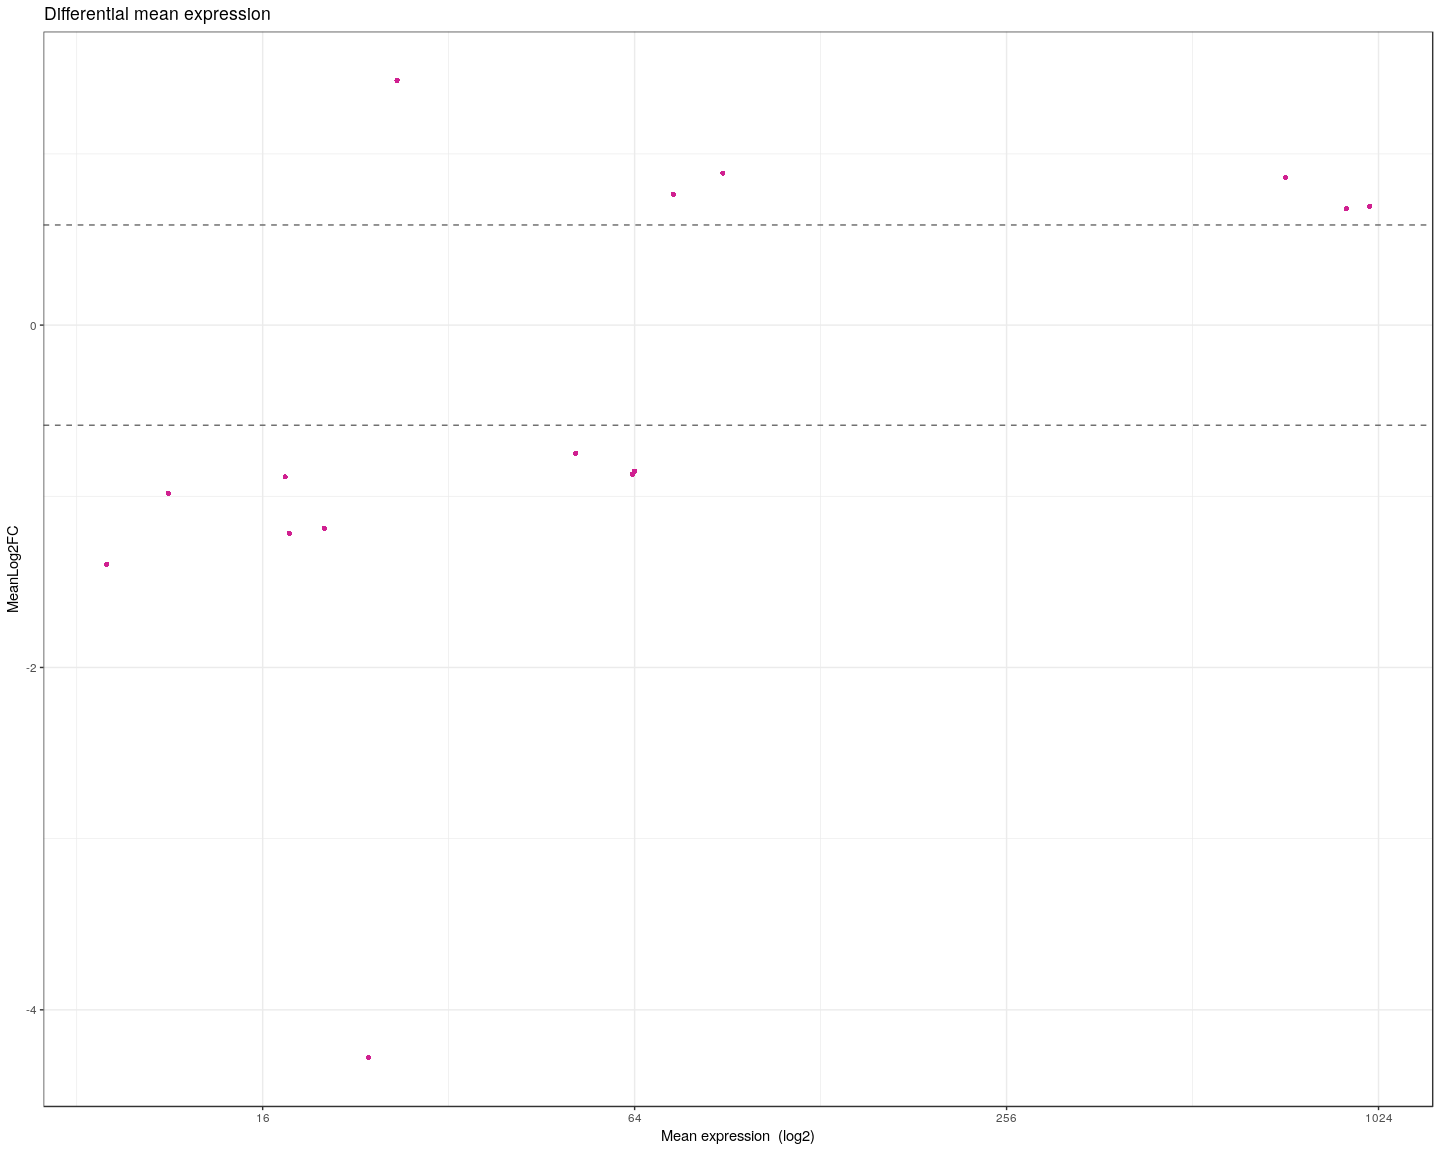
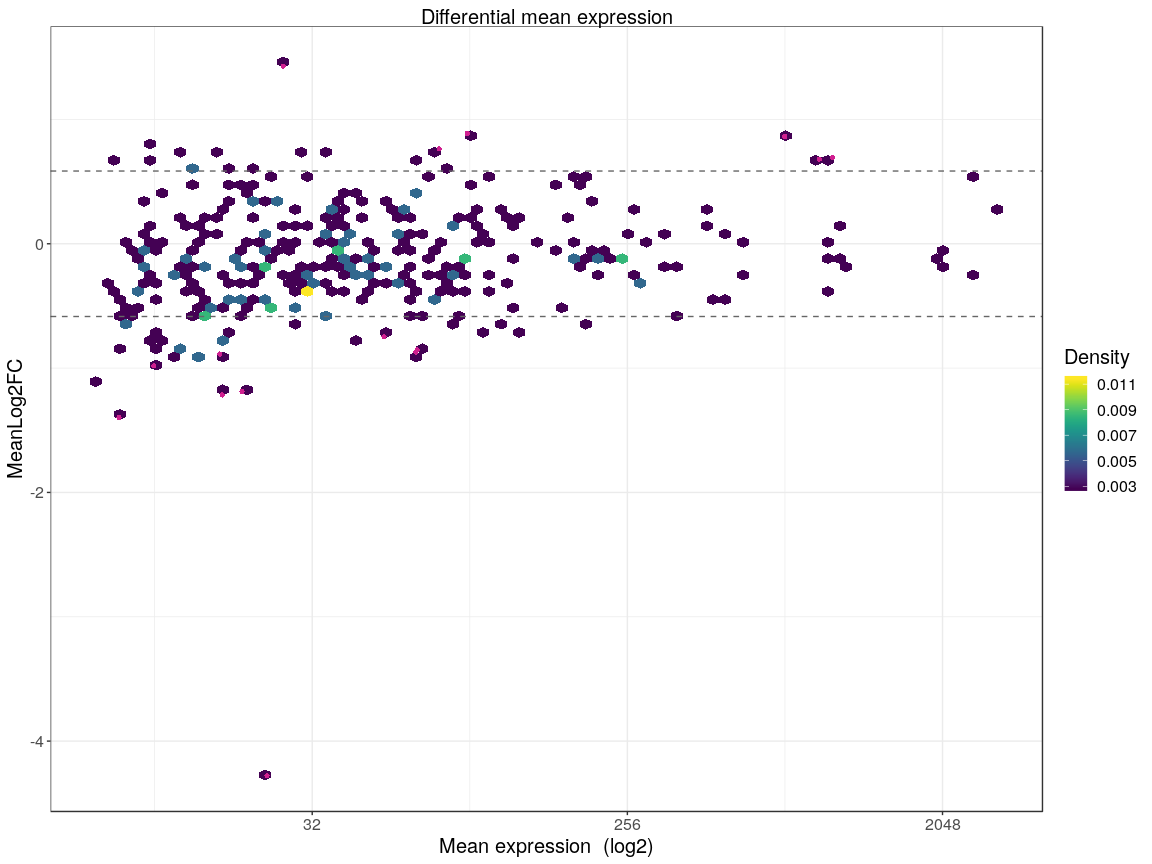
tmp

diff --git a/DEPlots_Demo.md b/DEPlots_Demo.md
@@ -9,9 +9,9 @@
     data(ChainRNAReg)
 
     t <- theme_bw()
-    t$text <- element_text(size = 15)
+    t$text$size <- 15
     t$plot.title <- element_text(hjust = 0.5)
-    theme_set(theme_bw())
+    theme_set(t)
 
     os <- BASiCS_CorrectOffset(ChainSCReg, ChainRNAReg, Plot = FALSE)
 
@@ -43,21 +43,11 @@
 
     BASiCS_PlotOffset(os, Type = "MAPlot")
 
-    ## Warning: Computation failed in `stat_binhex()`:
-    ## "hbin" not resolved from current namespace (hexbin)
-
-    ## Warning: Computation failed in `stat_binhex()`:
-    ## "hbin" not resolved from current namespace (hexbin)
-
 <img src="DEPlots_Demo_files/figure-markdown_strict/offsets-3.png" width="1200px" height="500px" />
 
     DEPlots_ResultDE(de@Results[[1]])
 
-    ## Warning: Computation failed in `stat_binhex()`:
-    ## "hbin" not resolved from current namespace (hexbin)
-
-    ## Warning: Computation failed in `stat_binhex()`:
-    ## "hbin" not resolved from current namespace (hexbin)
+    ## Warning: Removed 16 rows containing missing values (geom_hex).
 
     ## Warning: Removed 1 rows containing missing values (geom_hline).
 
@@ -65,15 +55,11 @@
 
     DEPlots_ResultDE(de@Results[[1]], Which = "MAPlot")
 
-    ## Warning: Computation failed in `stat_binhex()`:
-    ## "hbin" not resolved from current namespace (hexbin)
-
 <img src="DEPlots_Demo_files/figure-markdown_strict/DE: separately-2.png" width="1200px" height="500px" />
 
     DEPlots_ResultDE(de@Results[[1]], Which = "VolcanoPlot")
 
-    ## Warning: Computation failed in `stat_binhex()`:
-    ## "hbin" not resolved from current namespace (hexbin)
+    ## Warning: Removed 16 rows containing missing values (geom_hex).
 
     ## Warning: Removed 1 rows containing missing values (geom_hline).
 
@@ -85,19 +71,11 @@
 
     BASiCS_PlotDE(de)
 
-    ## Warning: Computation failed in `stat_binhex()`:
-    ## "hbin" not resolved from current namespace (hexbin)
-
-    ## Warning: Computation failed in `stat_binhex()`:
-    ## "hbin" not resolved from current namespace (hexbin)
+    ## Warning: Removed 16 rows containing missing values (geom_hex).
 
     ## Warning: Removed 1 rows containing missing values (geom_hline).
 
-    ## Warning: Computation failed in `stat_binhex()`:
-    ## "hbin" not resolved from current namespace (hexbin)
-
-    ## Warning: Computation failed in `stat_binhex()`:
-    ## "hbin" not resolved from current namespace (hexbin)
+    ## Warning: Removed 13 rows containing missing values (geom_hex).
 
     ## Warning: Removed 1 rows containing missing values (geom_hline).
 
@@ -111,13 +89,7 @@
 
     ## Warning: Removed 186 rows containing non-finite values (stat_binhex).
 
-    ## Warning: Computation failed in `stat_binhex()`:
-    ## "hbin" not resolved from current namespace (hexbin)
-
     ## Warning: Removed 4 rows containing missing values (geom_point).
-
-    ## Warning: Computation failed in `stat_binhex()`:
-    ## "hbin" not resolved from current namespace (hexbin)
 
     ## Warning: Removed 1 rows containing missing values (geom_hline).
 
@@ -125,12 +97,6 @@
 
     BASiCS_PlotDE(de, Which = "MAPlot")
 
-    ## Warning: Computation failed in `stat_binhex()`:
-    ## "hbin" not resolved from current namespace (hexbin)
-
-    ## Warning: Computation failed in `stat_binhex()`:
-    ## "hbin" not resolved from current namespace (hexbin)
-
     ## Warning in self$trans$transform(x): NaNs produced
 
     ## Warning: Transformation introduced infinite values in continuous x-axis
@@ -141,27 +107,19 @@
 
     ## Warning: Removed 186 rows containing non-finite values (stat_binhex).
 
-    ## Warning: Computation failed in `stat_binhex()`:
-    ## "hbin" not resolved from current namespace (hexbin)
-
     ## Warning: Removed 4 rows containing missing values (geom_point).
 
 <img src="DEPlots_Demo_files/figure-markdown_strict/DE: together-2.png" width="1200px" height="500px" />
 
     BASiCS_PlotDE(de, Which = "VolcanoPlot")
 
-    ## Warning: Computation failed in `stat_binhex()`:
-    ## "hbin" not resolved from current namespace (hexbin)
+    ## Warning: Removed 16 rows containing missing values (geom_hex).
 
     ## Warning: Removed 1 rows containing missing values (geom_hline).
 
-    ## Warning: Computation failed in `stat_binhex()`:
-    ## "hbin" not resolved from current namespace (hexbin)
+    ## Warning: Removed 13 rows containing missing values (geom_hex).
 
     ## Warning: Removed 1 rows containing missing values (geom_hline).
-
-    ## Warning: Computation failed in `stat_binhex()`:
-    ## "hbin" not resolved from current namespace (hexbin)
 
     ## Warning: Removed 1 rows containing missing values (geom_hline).
 
